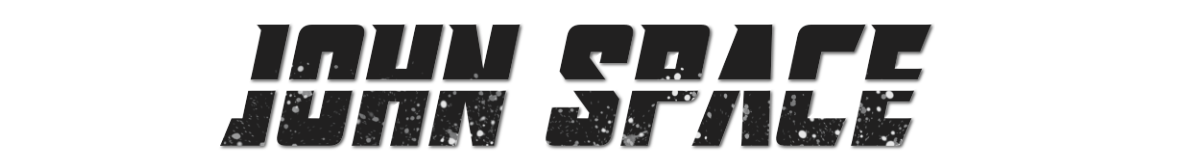
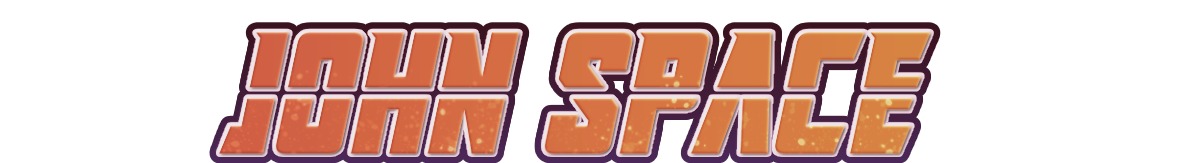
new edition of episode 01

diff --git a/content/comics/john-space_episode01/index.md b/content/comics/john-space_episode01/index.md
@@ -8,11 +8,8 @@ featuredImage = 'book-john-space_1.jpg'
 
 Click on picture below to open the Comics reader:
 
-{{< image src="book-john-space_1.jpg" caption="page 01">}}
-{{< image src="book-john-space_3.jpg" caption="page 02" class="hidden-img">}}
-{{< image src="book-john-space_4.jpg" caption="page 03" class="hidden-img">}}
-{{< image src="book-john-space_5.jpg" caption="page 04" class="hidden-img">}}
-{{< image src="book-john-space_6.jpg" caption="page 05" class="hidden-img">}}
-{{< image src="book-john-space_7.jpg" caption="page 06" class="hidden-img">}}
-{{< image src="book-john-space_8.jpg" caption="page 07" class="hidden-img">}}
-{{< image src="book-john-space_9.jpg" caption="page 08" class="hidden-img">}}
+{{< image src="../clickhere.png" caption="">}}
+{{< image src="JohnSpace_E01_p_1.jpg" caption="page 01" class="hidden-img">}}
+{{< image src="JohnSpace_E01_p_2.jpg" caption="page 02" class="hidden-img">}}
+{{< image src="JohnSpace_E01_p_3.jpg" caption="page 03" class="hidden-img">}}
+{{< image src="JohnSpace_E01_p_4.jpg" caption="page 04" class="hidden-img">}}

diff --git a/content/comics/john-space_episode02-part1/index.md b/content/comics/john-space_episode02-part1/index.md
@@ -8,7 +8,7 @@ featuredImage = 'book-john-space_1.jpg'
 
 Click on picture below to open the Comics reader:
 
-{{< image src="preview.jpg" caption="page 01">}}
+{{< image src="../clickhere.png" caption="">}}
 {{< image src="JohnSpace_E02part1_1.jpg" caption="page 02" class="hidden-img">}}
 {{< image src="JohnSpace_E02part1_2.jpg" caption="page 03" class="hidden-img">}}
 {{< image src="JohnSpace_E02part1_3.jpg" caption="page 04" class="hidden-img">}}
